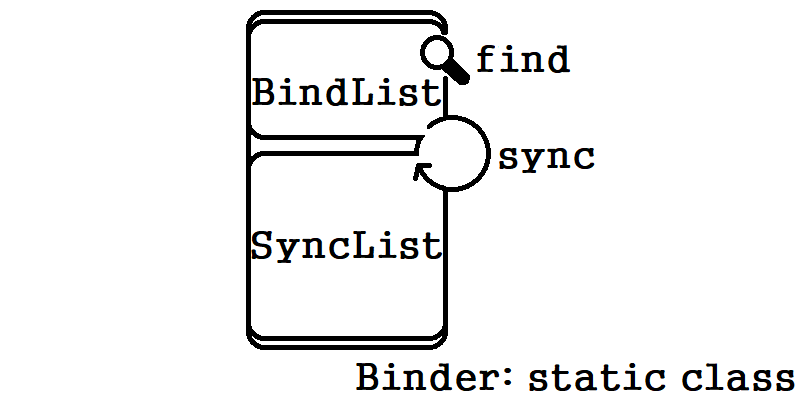
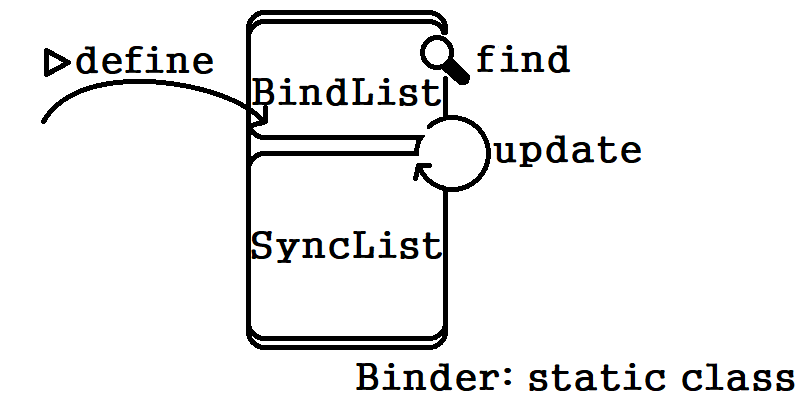
update 1.0.0: to major

diff --git a/fragment.js b/fragment.js
@@ -59,10 +59,9 @@ const fragmentList = {
             $("input", {type: "text", style: "width: 50%; height: 40px; text-align: center;", var: "c=11"}),
             $("p", {exp: "a b c->{a}: {b} + {c} = {b + c} (각 값들은 숫자가 아닌 문자열도 지원합니다.)"}),
             $("input", {type: "button", value: "binding된 요소 초기화", style: "width: 300px; height: 40px; margin-left: 15px; margin-bottom: 10px;", onclick: e => {
-                Binder.find("a").value = "binding example";
-                Binder.find("b").value = 6;
-                Binder.find("c").value = 11;
-                Binder.sync(Binder.find("a"));
+                Binder.update("a", "binding example");
+                Binder.update("b", 6);
+                Binder.update("c", 11);
             }}),
             $("br"),
             $("input", {type: "button", value: "binding된 요소들 console에 출력하기", style: "width: 300px; height: 40px; margin-left: 15px;", onclick: e => {

diff --git a/test_script.js b/test_script.js
@@ -1,1 +1,1 @@
-
+Binder.define("test", "32to")
